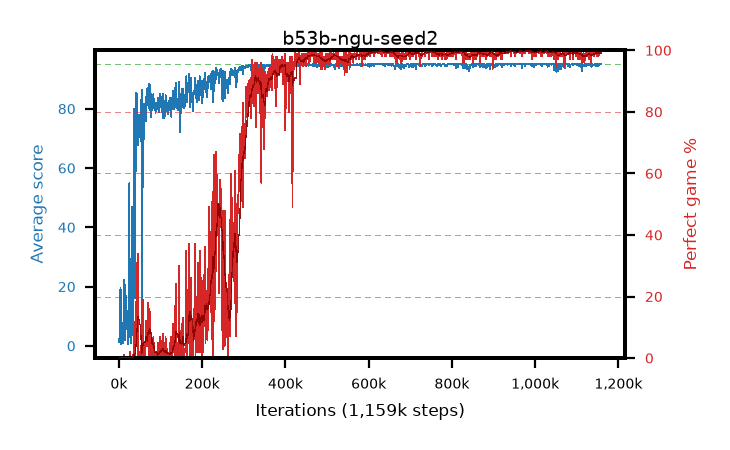
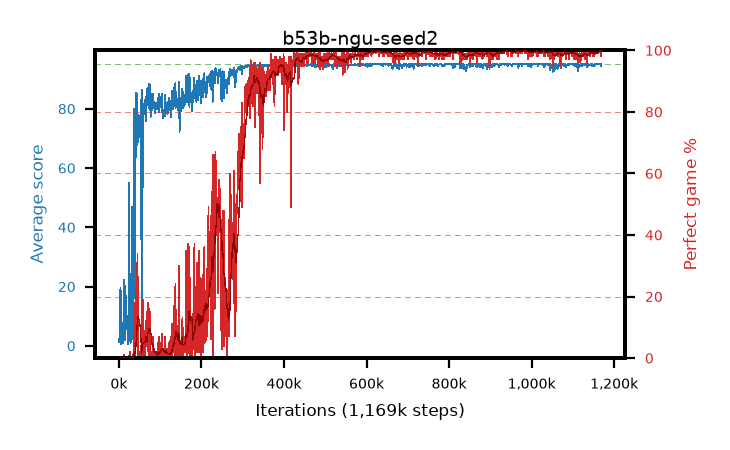
live pictures of 4 arm(s)

diff --git a/results/b53b-ngu-seed2/b53b-ngu-seed2.md b/results/b53b-ngu-seed2/b53b-ngu-seed2.md
@@ -1,6 +1,6 @@
 # b53b-ngu-seed2
 
-step **1,159,000** · 1159 evals · trailing **94.81** · peak **94.96** @1,028,000 · sef **73.1** · best30 **99.8** @983,000
+step **1,169,000** · 1169 evals · trailing **94.89** · peak **94.96** @1,028,000 · sef **73.3** · best30 **99.8** @983,000
 
 ## Config
 
@@ -80,15 +80,15 @@ step **1,159,000** · 1159 evals · trailing **94.81** · peak **94.96** @1,028,
 | 2000 | 6.04 | 3.73 | 0.0 | 19.0 | 3.28 | 0.0 | 0.4 |
 | 3000 | 18.06 | 8.5 | 1.0 | 40.0 | 15.298 | 0.0 | 0.4 |
 | ... | ... | ... | ... | ... | ... | ... | ... |
-| 1148000 | 95.0 | 94.8 | 95.0 | 95.0 | 193.697 | 100.0 | 0.4 |
-| 1149000 | 94.91 | 94.8 | 88.0 | 95.0 | 191.561 | 98.0 | 0.4 |
-| 1150000 | 94.91 | 94.82 | 86.0 | 95.0 | 192.575 | 99.0 | 0.4 |
-| 1151000 | 94.56 | 94.83 | 52.0 | 95.0 | 191.154 | 98.0 | 0.4 |
-| 1152000 | 94.24 | 94.8 | 20.0 | 95.0 | 190.856 | 98.0 | 0.4 |
-| 1153000 | 94.93 | 94.8 | 88.0 | 95.0 | 192.628 | 99.0 | 0.4 |
-| 1154000 | 95.0 | 94.8 | 95.0 | 95.0 | 193.704 | 100.0 | 0.4 |
-| 1155000 | 95.0 | 94.8 | 95.0 | 95.0 | 193.714 | 100.0 | 0.4 |
-| 1156000 | 94.98 | 94.81 | 93.0 | 95.0 | 192.656 | 99.0 | 0.4 |
-| 1157000 | 95.0 | 94.81 | 95.0 | 95.0 | 193.723 | 100.0 | 0.4 |
 | 1158000 | 95.0 | 94.81 | 95.0 | 95.0 | 193.719 | 100.0 | 0.4 |
 | 1159000 | 95.0 | 94.81 | 95.0 | 95.0 | 193.692 | 100.0 | 0.4 |
+| 1160000 | 94.95 | 94.82 | 90.0 | 95.0 | 192.613 | 99.0 | 0.4 |
+| 1161000 | 95.0 | 94.82 | 95.0 | 95.0 | 193.696 | 100.0 | 0.4 |
+| 1162000 | 94.98 | 94.83 | 93.0 | 95.0 | 192.658 | 99.0 | 0.4 |
+| 1163000 | 95.0 | 94.83 | 95.0 | 95.0 | 193.695 | 100.0 | 0.4 |
+| 1164000 | 95.0 | 94.85 | 95.0 | 95.0 | 193.705 | 100.0 | 0.4 |
+| 1165000 | 95.0 | 94.88 | 95.0 | 95.0 | 193.703 | 100.0 | 0.4 |
+| 1166000 | 95.0 | 94.9 | 95.0 | 95.0 | 193.713 | 100.0 | 0.4 |
+| 1167000 | 95.0 | 94.9 | 95.0 | 95.0 | 193.709 | 100.0 | 0.4 |
+| 1168000 | 95.0 | 94.9 | 95.0 | 95.0 | 193.689 | 100.0 | 0.4 |
+| 1169000 | 94.48 | 94.89 | 46.0 | 95.0 | 191.136 | 98.0 | 0.4 |
